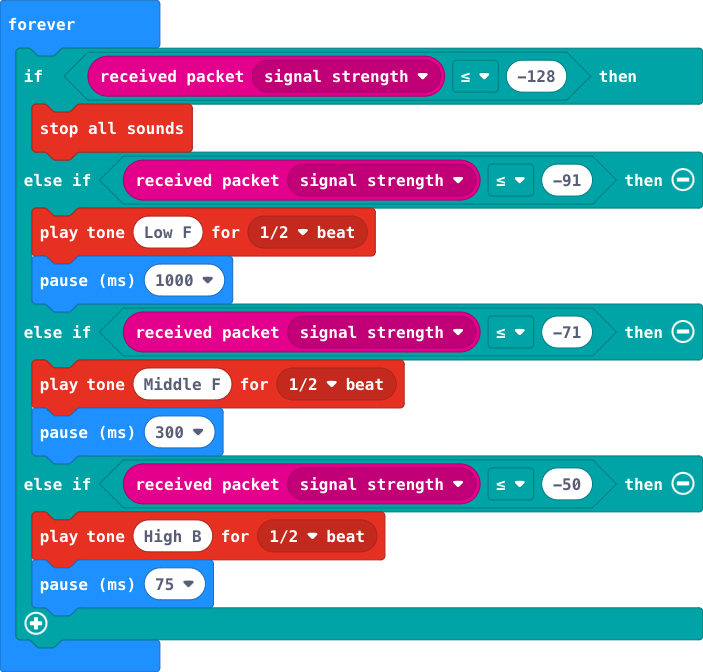
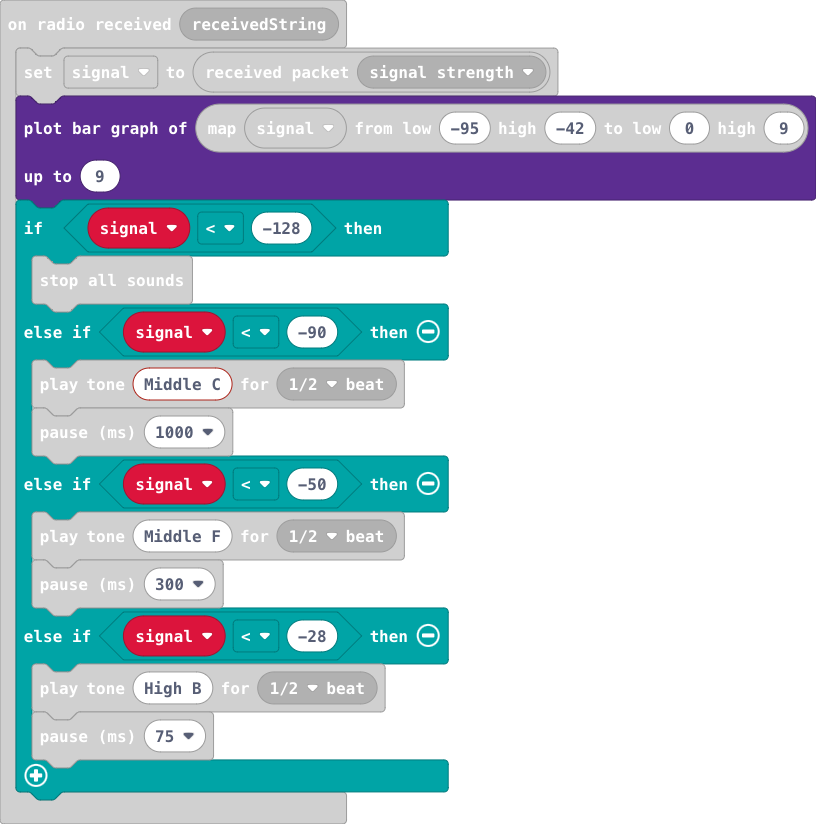
Update main.blocks, main.ts

diff --git a/main.ts b/main.ts
@@ -4,6 +4,18 @@ radio.onReceivedString(function (receivedString) {
     Math.map(signal, -95, -42, 0, 9),
     9
     )
+    if (signal < -128) {
+        music.stopAllSounds()
+    } else if (signal < -90) {
+        music.playTone(262, music.beat(BeatFraction.Half))
+        basic.pause(1000)
+    } else if (signal < -50) {
+        music.playTone(349, music.beat(BeatFraction.Half))
+        basic.pause(300)
+    } else if (signal < -28) {
+        music.playTone(988, music.beat(BeatFraction.Half))
+        basic.pause(75)
+    }
 })
 let signal = 0
 radio.setGroup(1)
@@ -11,16 +23,5 @@ basic.forever(function () {
 	
 })
 basic.forever(function () {
-    if (radio.receivedPacket(RadioPacketProperty.SignalStrength) <= -128) {
-        music.stopAllSounds()
-    } else if (radio.receivedPacket(RadioPacketProperty.SignalStrength) <= -91) {
-        music.playTone(175, music.beat(BeatFraction.Half))
-        basic.pause(1000)
-    } else if (radio.receivedPacket(RadioPacketProperty.SignalStrength) <= -71) {
-        music.playTone(349, music.beat(BeatFraction.Half))
-        basic.pause(300)
-    } else if (radio.receivedPacket(RadioPacketProperty.SignalStrength) <= -50) {
-        music.playTone(988, music.beat(BeatFraction.Half))
-        basic.pause(75)
-    }
+	
 })
